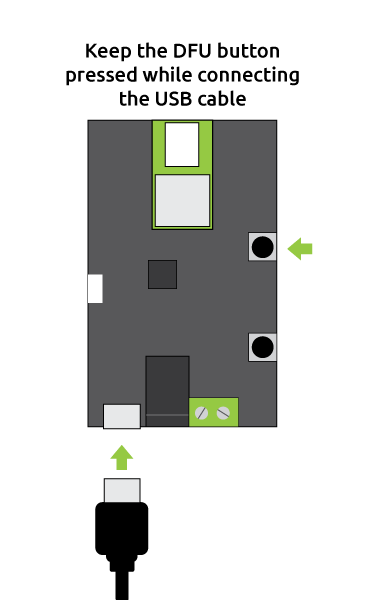
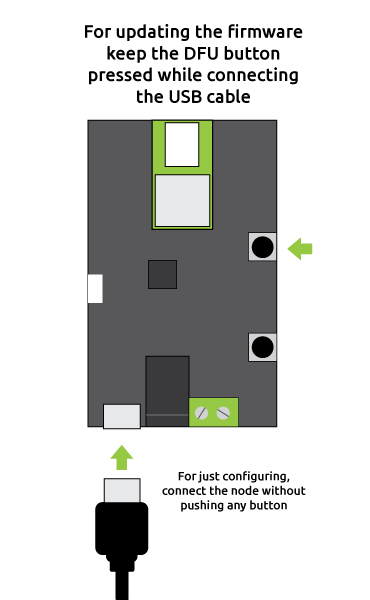
#5: Update GUI with node detection and add ID configuration

Changed region(s): [[0.1784, 0.03, 0.8324, 0.18], [0.4459, 0.78, 0.8324, 0.87]]

diff --git a/lpstools/gui.py b/lpstools/gui.py
@@ -11,6 +11,7 @@ from PyQt5.QtGui import QPixmap
 from PyQt5.QtWidgets import QMessageBox
 
 from lpstools import dfu
+from lpstools import nodeConfigurator
 
 
 STATE_NO_FIRMWARE = "no firmware"
@@ -45,9 +46,10 @@ class LpsToolsGui(QtWidgets.QMainWindow):
         self._uipath = uipath
 
         self._dfu = dfu.dfu()
+        self._node_configurator = nodeConfigurator.NodeConfigurator()
 
-        self.state = STATE_NO_FIRMWARE
-        self.dfu_connected = False
+        self._state = STATE_NO_FIRMWARE
+        self._dfu_connected = False
 
         self._device_detector_timer = QtCore.QTimer(self)
         self._device_detector_timer.timeout.connect(self._dfu_present)
@@ -56,6 +58,11 @@ class LpsToolsGui(QtWidgets.QMainWindow):
         self.programming_error.connect(self._show_error)
         self.programming_done.connect(self._programming_done)
         self.programming_progress.connect(self._programming_progress)
+
+        self._node_device = None
+        self._node_connected = False
+
+        self._update_state()
 
         self.show()
 
@@ -100,6 +107,8 @@ class LpsToolsGui(QtWidgets.QMainWindow):
             "Configure id {} mode {}".format(
                 self.configure_id_line.value(),
                 MODES[self.configure_mode_combo.currentIndex()]))
+        self._node_configurator.set_id(self._node_device,
+                                       self.configure_id_line.value())
 
     def _show_error(self, error):
         msgbox = QMessageBox(self)
@@ -125,25 +134,34 @@ class LpsToolsGui(QtWidgets.QMainWindow):
         self.infoLabel.setPixmap(pixmap.scaled(w, h, Qt.KeepAspectRatio))
 
     def _update_state(self):
-        if self._state == STATE_NO_FIRMWARE:
-            self._display_help('help_1.png')
+        if self._node_connected:
+            self._display_help('help_5.png')
             self.updateButton.setEnabled(False)
-        elif self._state == STATE_DFU and not self._dfu_connected:
+            self.configureButton.setEnabled(True)
+        elif not self._dfu_connected:
             self._display_help('help_2.png')
             self.updateButton.setEnabled(False)
+            self.configureButton.setEnabled(False)
+        elif self._state == STATE_NO_FIRMWARE:
+            self._display_help('help_1.png')
+            self.updateButton.setEnabled(False)
+            self.configureButton.setEnabled(False)
         elif self._state == STATE_DFU and self._dfu_connected:
             self._display_help('help_3.png')
             self.updateButton.setEnabled(True)
             self.dfu_progress.setValue(0)
             self.dfu_progress.setFormat("%p%")
+            self.configureButton.setEnabled(False)
         elif self._state == STATE_DFU_FLASHING:
             self._display_help('help_3.png')
             self.updateButton.setEnabled(False)
             self.dfu_progress.setFormat("%p%")
+            self.configureButton.setEnabled(False)
         elif self._state == STATE_DFU_DONE:
             self._display_help('help_4.png')
             self.updateButton.setEnabled(True)
             self.dfu_progress.setFormat("Success!")
+            self.configureButton.setEnabled(False)
 
     # Timer functions
 
@@ -156,6 +174,9 @@ class LpsToolsGui(QtWidgets.QMainWindow):
                 self.dfu_connected = False
                 if self.state != STATE_NO_FIRMWARE:
                     self.state = STATE_DFU
+
+        self._node_device = self._node_configurator.find_node()
+        self.node_connected = self._node_device is not None
 
     # Properties
 
@@ -176,6 +197,15 @@ class LpsToolsGui(QtWidgets.QMainWindow):
         self._update_state()
 
     dfu_connected = property(_get_dfu_connected, _set_dfu_connected)
+
+    def _get_node_connected(self):
+        return self._node_connected
+
+    def _set_node_connected(self, node_connected):
+        self._node_connected = node_connected
+        self._update_state()
+
+    node_connected = property(_get_node_connected, _set_node_connected)
 
 
 class _DfuThread(QtCore.QThread):
